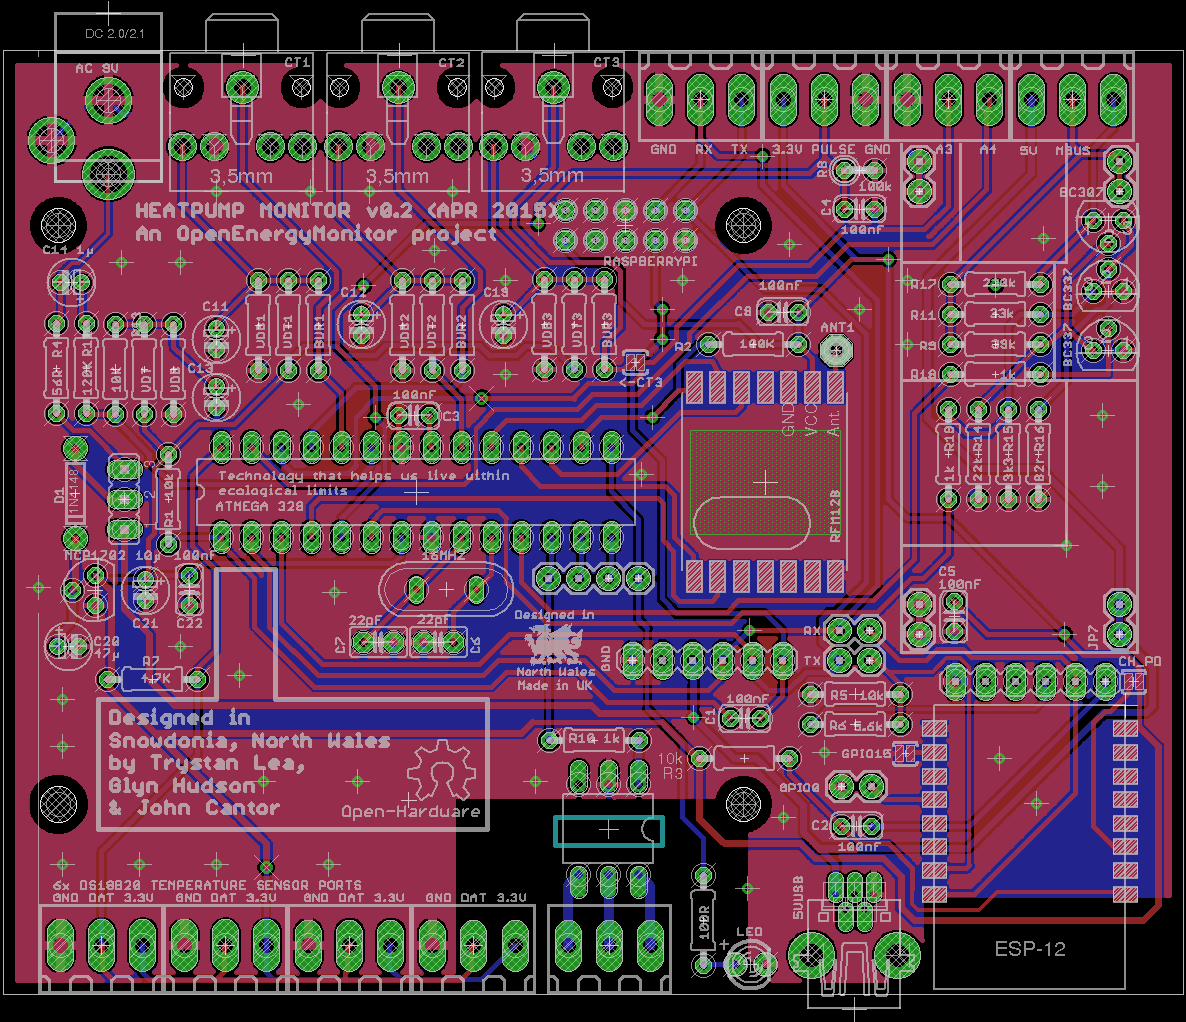
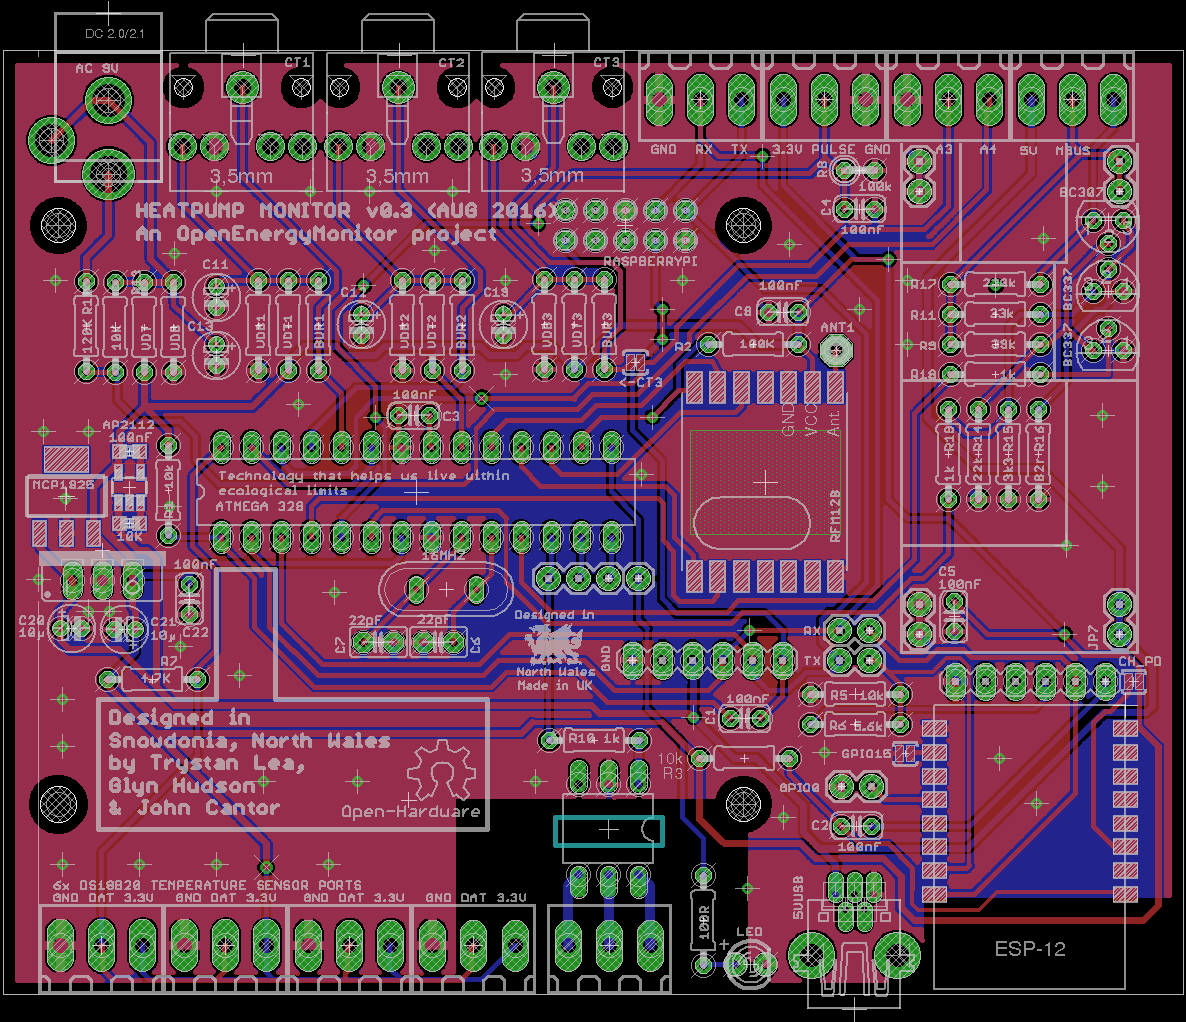
Updated v3 board and shematic images

diff --git a/Hardware/v3/readme.md b/Hardware/v3/readme.md
@@ -1,4 +1,4 @@
-# Heatpump monitor v2
+# Heatpump monitor v3
 
 ## Schematic
 
